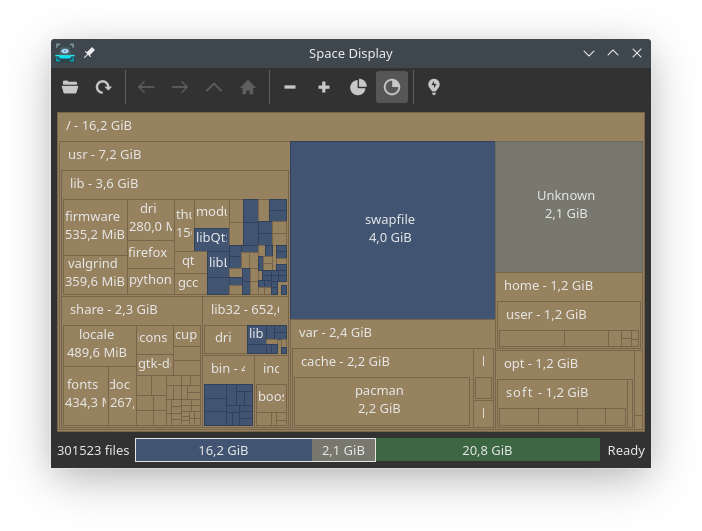
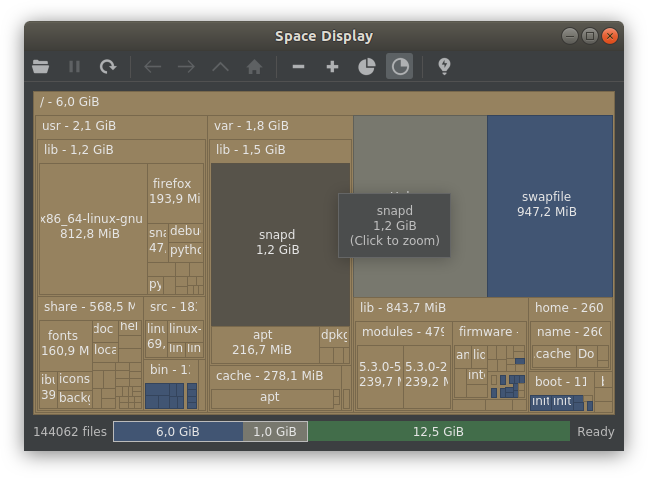
Update screenshots

diff --git a/README.md b/README.md
@@ -17,7 +17,7 @@ Screenshots
 Light theme in Windows 10:  
 ![Windows-Light-Theme](images/win-light.png)
 
-Dark theme in Manjaro KDE:  
+Dark theme in Ubuntu 18.04:  
 ![Linux-Dark-Theme](images/linux-dark.png)
 
 Basic usage
@@ -150,7 +150,6 @@ But if you launch it from explorer, you'll need to put required dll's to bin fol
 
 You also need to copy required qt5 plugins from `C:\msysXX\mingw64\share\qt5\plugins` (assuming MSYS2 was installed to `C:\msysXX`):
 > platforms/qwindows.dll  
-> styles/qwindowsvistastyle.dll
 
 After that you can launch `spacedisplay.exe` from explorer.
 
@@ -173,7 +172,6 @@ version of installed Visual Studio. If it's not 14 or 15, use existing `build-wi
 > Qt5Svg.dll  
 > Qt5Widgets.dll  
 > platforms/qwindows.dll  
-> styles/qwindowsvistastyle.dll  
 
 Acknowledgements
 ----------------
